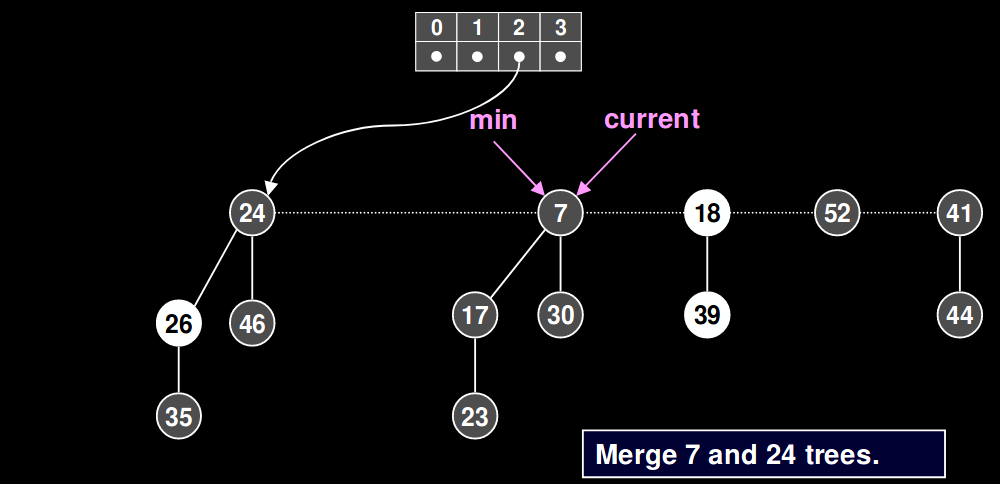
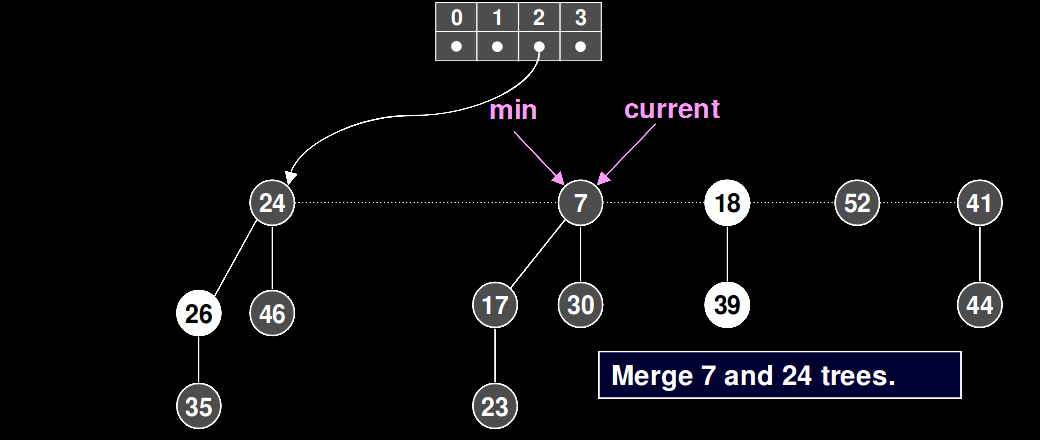
fixed problems with layout in lecture 4

diff --git a/06_advanced-data-structures-4/index.html b/06_advanced-data-structures-4/index.html
@@ -42,6 +42,7 @@
 <body>
 <div class="reveal">
     <div class="slides">
+
         <!-------------------------------------------------------------------------------------------------->
         <section data-markdown="" data-background="img/ads-00-background.png">
             <script type="text/template">
@@ -365,18 +366,17 @@
                 <img height="350" src="img/ads-06-binomial-heap.png"/>
             </script>
         </section>
-        <section data-markdown data-transition="none">
-            <script type="text/template">
-                ### Binomial heap
+        <section data-transition="none">
+            <h3>Binomial heap</h3>
+            <ul style="font-size:large">
+                <li>More efficient merge operation</li>
+                <li>Extract-min: delete root, merge</li>
+                <li>Insert: add single node, merge</li>
+                <li>Decrease-key: swim up whole sub-tree</li>
+                <li>Delete: decrease-key (-∞), then extract-min</li>
+            </ul>
 
-                - More efficient merge operation
-                - Extract-min: delete root, merge
-                - Insert: add single node, merge
-                - Decrease-key: swim up whole sub-tree
-                - Delete: decrease-key `-∞`, then extract-min
-
-                <img height="300" src="img/ads-06-binomial-heap-extract-min.png"/>
-            </script>
+            <img height="350" src="img/ads-06-binomial-heap-extract-min.png"/>
         </section>
         <section data-markdown data-transition="none">
             <script type="text/template">
@@ -402,6 +402,8 @@
                 - However _not_ binomial trees
                 - Fibonacci sequence is used in the complexity analysis of its operations
                 - All operation are trivial except `Delete-Min` and `Decrease-Key`
+
+                <img height="150" src="img/ads-07-fibonacci-heap-trees.png"/>
             </script>
         </section>
         <section data-markdown data-transition="none">
@@ -411,7 +413,7 @@
                 - Delete min and concatenate its children into root list
                 - Consolidate trees so that no two roots have same order
 
-                <img height=400" src="img/ads-08-fibonacci-heap-delete-min-1.png" />
+                <img src="img/ads-08-fibonacci-heap-delete-min-1.png" />
             </script>
         </section>
         <section data-markdown data-transition="none">
@@ -421,7 +423,7 @@
                 - Delete min and concatenate its children into root list
                 - Consolidate trees so that no two roots have same order
 
-                <img height=400" src="img/ads-08-fibonacci-heap-delete-min-2.png" />
+                <img src="img/ads-08-fibonacci-heap-delete-min-2.png" />
             </script>
         </section>
         <section data-markdown data-transition="none">
@@ -431,7 +433,7 @@
                 - Delete min and concatenate its children into root list
                 - Consolidate trees so that no two roots have same order
 
-                <img height=400" src="img/ads-08-fibonacci-heap-delete-min-3.png" />
+                <img src="img/ads-08-fibonacci-heap-delete-min-3.png" />
             </script>
         </section>
         <section data-markdown data-transition="none">
@@ -441,7 +443,7 @@
                 - Delete min and concatenate its children into root list
                 - Consolidate trees so that no two roots have same order
 
-                <img height=400" src="img/ads-08-fibonacci-heap-delete-min-4.png" />
+                <img src="img/ads-08-fibonacci-heap-delete-min-4.png" />
             </script>
         </section>
         <section data-markdown data-transition="none">
@@ -451,7 +453,7 @@
                 - Delete min and concatenate its children into root list
                 - Consolidate trees so that no two roots have same order
 
-                <img height=400" src="img/ads-08-fibonacci-heap-delete-min-5.png" />
+                <img src="img/ads-08-fibonacci-heap-delete-min-5.png" />
             </script>
         </section>
         <section data-markdown data-transition="none">
@@ -461,7 +463,7 @@
                 - Delete min and concatenate its children into root list
                 - Consolidate trees so that no two roots have same order
 
-                <img height=400" src="img/ads-08-fibonacci-heap-delete-min-6.png" />
+                <img src="img/ads-08-fibonacci-heap-delete-min-6.png" />
             </script>
         </section>
         <section data-markdown data-transition="none">
@@ -471,7 +473,7 @@
                 - Delete min and concatenate its children into root list
                 - Consolidate trees so that no two roots have same order
 
-                <img height=400" src="img/ads-08-fibonacci-heap-delete-min-7.png" />
+                <img src="img/ads-08-fibonacci-heap-delete-min-7.png" />
             </script>
         </section>
         <section data-markdown data-transition="none">
@@ -481,40 +483,42 @@
                 - Delete min and concatenate its children into root list
                 - Consolidate trees so that no two roots have same order
 
-                <img height=400" src="img/ads-08-fibonacci-heap-delete-min-8.png" />
+                <img src="img/ads-08-fibonacci-heap-delete-min-8.png" />
             </script>
         </section>
         <section data-markdown data-transition="none">
             <script type="text/template">
                 ### Fibonacci heap, delete-min
 
-                - Delete min and concatenate its children into root list
-                - Consolidate trees so that no two roots have same order
-
-                <img height=400" src="img/ads-08-fibonacci-heap-delete-min-9.png" />
+                - Then merge 41 and 18 etc...
+                <img src="img/ads-08-fibonacci-heap-delete-min-9.png" />
             </script>
         </section>
         <section data-markdown data-transition="none">
             <script type="text/template">
                 ### Fibonacci heap
 
-                - Theoretically is the best, but practically is not cache-friendly
-                - So there are better variants like `Pairing heap` and `Brodal heap`
+                - Theoretically Fibonacci heap is the best
+                - But practically is not cache-friendly
+                - Further improvements: `Pairing heap` and `Brodal heap`
+                - There is [Brodal-Okasaki purely functional variant](http://www.brics.dk/RS/96/37/BRICS-RS-96-37.pdf)
 
-                | Op          | Binomial heap| Fibonacci    | Brodal heap |
-                |-------------|--------------|--------------|-------------|
-                |Insert       |  `O(1)*`     |  `O(1)`      |  `O(1)`     |
-                |Extract-min  |  `O(log n)`  |  `O(log n)*` |  `O(log n)` |
-                |Decrease-key |  `O(log n)`  |  `O(1)*`     |  `O(1)`     |
-                |Delete       |  `O(log n)`  |  `O(1)`      |  `O(1)`     |
-                |Merge        |  `O(1)*`     |  `O(1)`      |  `O(1)`     |
-                |Find-min     |  `O(1)`      |  `O(1)`      |  `O(1)`     |
+                <img src="img/ads-08-time-complexity-summary-heaps.png"/>
 
             </script>
         </section>
+        <section data-markdown data-transition="none">
+            <script type="text/template">
+                ### Heaps, Good tutorials
 
+                With nice animated explanations
 
-
+                - [Binary heap](http://www.growingwiththeweb.com/data-structures/binary-heap/overview/)
+                - [Binomial heap](http://www.growingwiththeweb.com/data-structures/binomial-heap/overview/)
+                - [Fibonacci heap](http://www.growingwiththeweb.com/data-structures/fibonacci-heap/overview/)
+                - [Fibonacci heap visualization](http://cs.usfca.edu/~galles/JavascriptVisual/FibonacciHeap.html)
+            </script>
+        </section>
 
         <!-- ================== Bloom and Cuckoo filter ================== -->
         <section data-markdown="">
@@ -522,12 +526,13 @@
                 ### Bloom filters
 
                 - Probabilistic data structure
-                    1. if the element exists, then return true
-                    1. if it does not exist, than return maybe true
+                    1. if the element exists, then returns maybe true
+                    1. if it does not exist, than returns false
+                - _False Positive Probability_ = _FPP_
 
                 ```scala
                 def put(k: Key): Unit
-                def get(k: Key): Bool
+                def contains(k: Key): Bool
                 ```
             </script>
         </section>
@@ -547,7 +552,6 @@
                 - `n` is the size of the input set
                 - `m` is the size of the Bloom filter in bits
 
-                Bits per element vs. false positive probability
                 <img height="300" src="img/ads-09-bloom-filter-congraph.png" />
             </script>
         </section>
@@ -579,13 +583,6 @@
                 1. new inserted values displace old ones
                 1. supports `delete` as well
 
-            </script>
-        </section>
-        <section data-markdown="" data-transition="none">
-            <script type="text/template">
-                ### Cuckoo filters
-                Cuckoo hashing, general idea
-                <img src="img/ads-10-cuckoo-general-1.png" alt="">
             </script>
         </section>
         <section data-markdown="" data-transition="none">
@@ -641,7 +638,13 @@
 
         <section data-markdown="">
             <script type="text/template">
-                ### Useful links
+                ### Thank you for your kind attention.
+            </script>
+        </section>
+
+        <section data-markdown="">
+            <script type="text/template">
+                ### Links
 
                 #### MUST SEE!
                 - [Erik Demaine, 6.851: Advanced Data Structures](http://courses.csail.mit.edu/6.851/spring12/lectures/)
